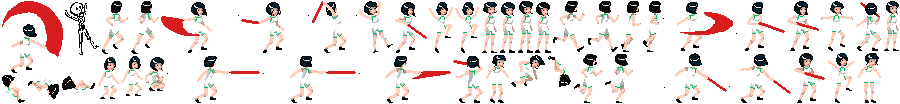
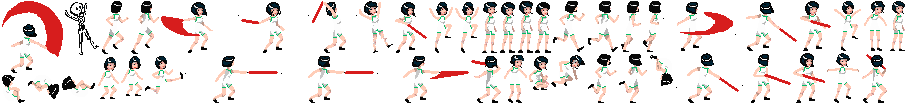
basic kick

diff --git a/Src/Frauki.js b/Src/Frauki.js
@@ -25,6 +25,7 @@ Player = function (game, x, y, name) {
     this.animations.add('flip', ['Flip0000', 'Flip0001', 'Flip0002', 'Flip0003', 'Flip0004'], 14, false, false);
     this.animations.add('roll', ['Flip0000', 'Flip0001', 'Flip0002', 'Flip0003', 'Flip0004'], 14, false, false);
     this.animations.add('hit', ['Hit0001', 'Hit0002'], 10, true, false);
+    this.animations.add('kick', ['Kick0000'], 12, false, false);
 
     //attacks
     this.animations.add('slash_stand1', ['Slash Standing0001', 'Slash Standing0002', 'Slash Standing0003', 'Slash Standing0004', 'Slash Standing0005'], 12, false, false);
@@ -56,6 +57,7 @@ Player = function (game, x, y, name) {
     this.timers.gracePeriod = 0;
     this.timers.hitTimer = 0;
     this.timers.runSlashTimer = 0;
+    this.timers.kickTimer = 0;
 
     this.movement = {};
     this.movement.rollVelocity = 0;
@@ -248,6 +250,12 @@ Player.prototype.Slash = function(params) {
 };
 
 Player.prototype.Roll = function(params) {
+    if(this.state === this.Jumping || this.state === this.Peaking || this.state === this.Falling || this.state === this.Flipping) {
+        this.state = this.Kicking;
+        this.timers.kickTimer = game.time.now + 200;
+        return;
+    }
+
     if(!this.body.onFloor() || this.game.time.now < this.rollTimer)
         return;
 
@@ -520,3 +528,21 @@ Player.prototype.OverheadSlashAerial = function() {
         }
     }
 };
+
+Player.prototype.Kicking = function() {
+    this.PlayAnim('kick');
+
+    if(this.body.velocity.x !== 0 && this.body.onFloor()) {
+            this.state = this.Running;
+    } else if(this.body.velocity.x === 0 && this.body.onFloor()) {
+        this.state = this.Landing;
+    }
+    
+    if(game.time.now > this.timers.kickTimer) {
+        if(this.body.velocity.y >= 0) {
+            this.state = this.Falling;
+        } else if(this.body.velocity.y < 0) {
+            this.state = this.Jumping;
+        }
+    }
+}

diff --git a/Src/FraukiDamageFrames.js b/Src/FraukiDamageFrames.js
@@ -89,5 +89,17 @@ var fraukiDamageFrames = {
 		damage: 10,
 		knockback: 0.8,
 		penetration: 0
+	},
+
+	'Kick0000': {
+		damageFrame: true,
+		x: 0, 
+		y: 25,
+		w: 25,
+		h: 20,
+
+		damage: 10,
+		knockback: 0.8,
+		penetration: 0
 	}
 };
